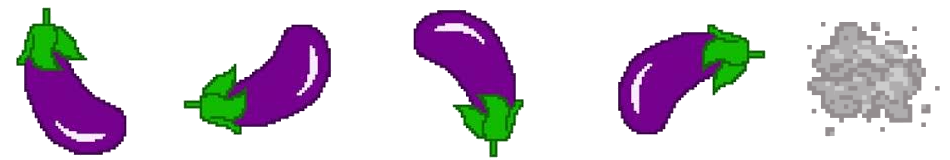
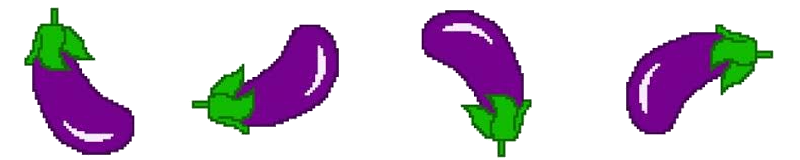
changes game 2

diff --git a/assets/js/models/fume.js b/assets/js/models/fume.js
@@ -1,20 +1,20 @@
-class Berenjena {
+class Fumes{
     constructor (ctx, x, y) {
         this.ctx = ctx;
         this.x = x;
         this.y = y - 40;
         this.width = 60;
         this.height = 60;
-        this.vx = 2;
+        this.vx = 0;
         this.vy = 0; 
         this.ax = 0;
         this.ay = 0;
         this.impact = false;
         this.image = new Image();
-        this.image.src = "/assets/images/characters/weapons/berenjenamove.png";
+        this.image.src = "/assets/images/characters/weapons/fumemove.png";
         this.image.verticalFrames = 1;
         this.image.verticalFrameIndex = 0;
-        this.image.horizontalFrames = 4;  
+        this.image.horizontalFrames = 2;  
         this.image.horizontalFrameIndex = 0;
         this.image.onload = () => {
             this.image.isReady = true;
@@ -24,7 +24,6 @@ class Berenjena {
         
         this.animationTick = 0;
     }
-
     draw() {
         if (this.image.isReady) {
             this.ctx.drawImage(
@@ -36,16 +35,10 @@ class Berenjena {
               this.x,
               this.y,
               this.width,
-              this.height,
-              this.smoke
+              this.height
             )};
             this.animate();
     } 
-    
-    hasImpact() {
-      this.impact = true; 
-    }
-    
     move() { 
         this.vx += this.ax;
         this.vy += this.ay;
@@ -56,7 +49,7 @@ class Berenjena {
     animate() {
         this.animationTick++;
       
-        if (this.animationTick > 4) {
+        if (this.animationTick > 2) {
           this.animationTick = 0; 
           this.image.horizontalFrameIndex++
       
@@ -69,11 +62,5 @@ class Berenjena {
           }
         }
 
-    isVisible() {   
-      const isTrue = this.x + this.width > 0 && this.isPop;
-       return isTrue
-    }       
 
-
-}
-    
+}    

diff --git a/assets/js/models/game.js b/assets/js/models/game.js
@@ -10,6 +10,7 @@ class Game {
       this.player = new Veneno(this.ctx, 10, this.canvas.height);
       this.berenjenas = [];
       this.enemies = [];
+      this.fumes = [];
       this.flies= new birdsGrey(this.ctx, 10, this.canvas.height);
       this.props = new birdsBlack(this.ctx, 10, this.canvas.height);
       this.tickEnemy = 0;
@@ -36,10 +37,10 @@ class Game {
           this.checkCollisionPlayer();
           this.checkCollisionShoot();
           this.tickEnemy++;
-          if (this.tickEnemy > this.limitEnemy) {
+          if (this.tickEnemy % 80 == 0) {
+
             this.addEnemy("PUTERO");
-            this.tickEnemy = 0;
-            this.limitEnemy =  Math.floor(Math.random() * 100);
+           
           }
         }, 1000 / this.framesPerSecond);
         }
@@ -57,6 +58,9 @@ class Game {
             
         if (colx && coly) {
           this.gameOver();
+          this.enemies.splice(1);
+          const newFume = new Fumes(this.ctx, enemy.x + enemy.width, enemy.y + enemy.height / 2);
+          newFume.draw();
         }
       });
     } 

diff --git a/index.html b/index.html
@@ -15,7 +15,8 @@
     <script src="/assets/js/models/birds-grey.js"></script>
     <script src="/assets/js/models/birds-black.js"></script>
     <script src="/assets/js/models/veneno.js"></script>
-    <script src="/assets/js/models/homofobo.js"></script> 
+    <script src="/assets/js/models/homofobo.js"></script>
+    <script src="/assets/js/models/fume.js"></script> 
     <script src="/assets/js/models/berenjena.js"></script>
     <script src="/assets/js/models/game.js"></script> 
     <script src="/assets/js/index.js"></script>  

diff --git a/assets/js/models/veneno.js b/assets/js/models/veneno.js
@@ -13,7 +13,7 @@ class Veneno {
 
     this.animationTick = 0;
     this.berenjenas = [];
-      
+   
     this.image = new Image();
     this.image.src = "/assets/images/characters/la-veneno/movement.png";
     this.image.verticalFrames = 1; 
